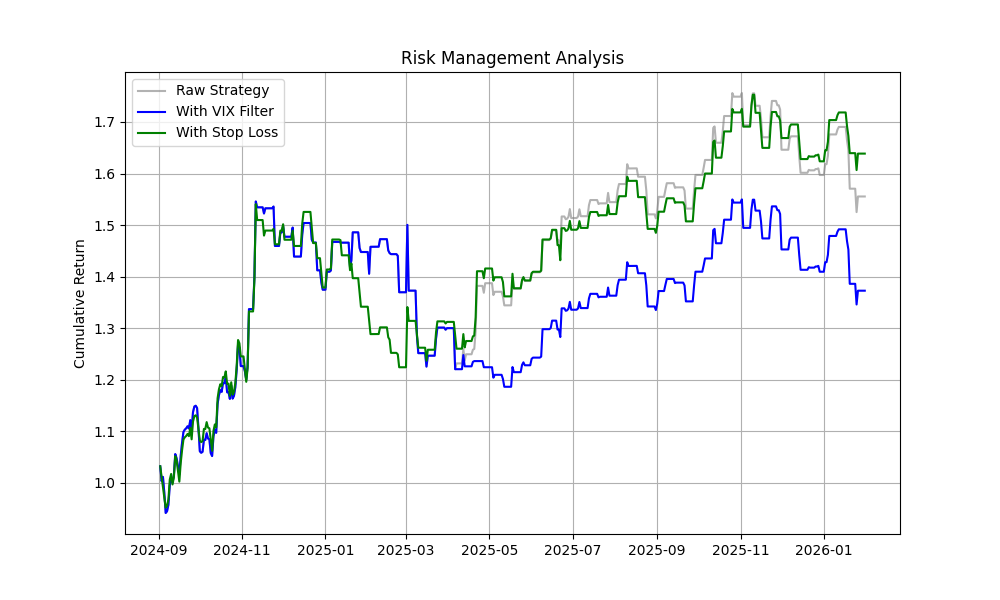
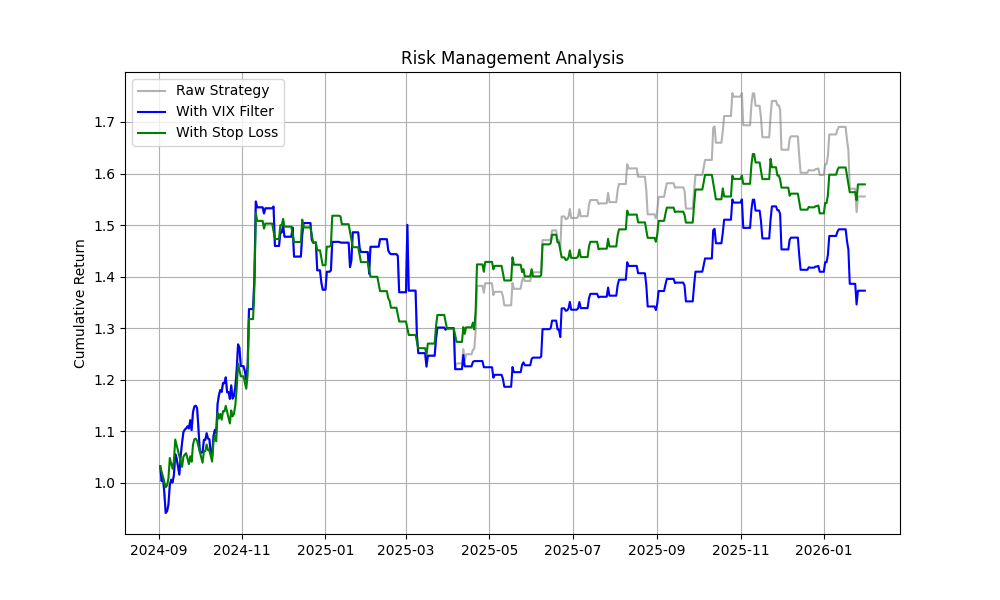
uuu

diff --git a/BigData/src/risk_management.py b/BigData/src/risk_management.py
@@ -14,7 +14,7 @@ PRED_OOS = OUTPUT_DIR / "pred_oos.csv"
 RISK_REPORT = OUTPUT_DIR / "risk_report.png"
 
 # Settings
-STOP_LOSS_PCT = 0.02
+STOP_LOSS_PCT = 0.01
 VIX_THRESHOLD = 25.0
 
 def apply_risk_management():
